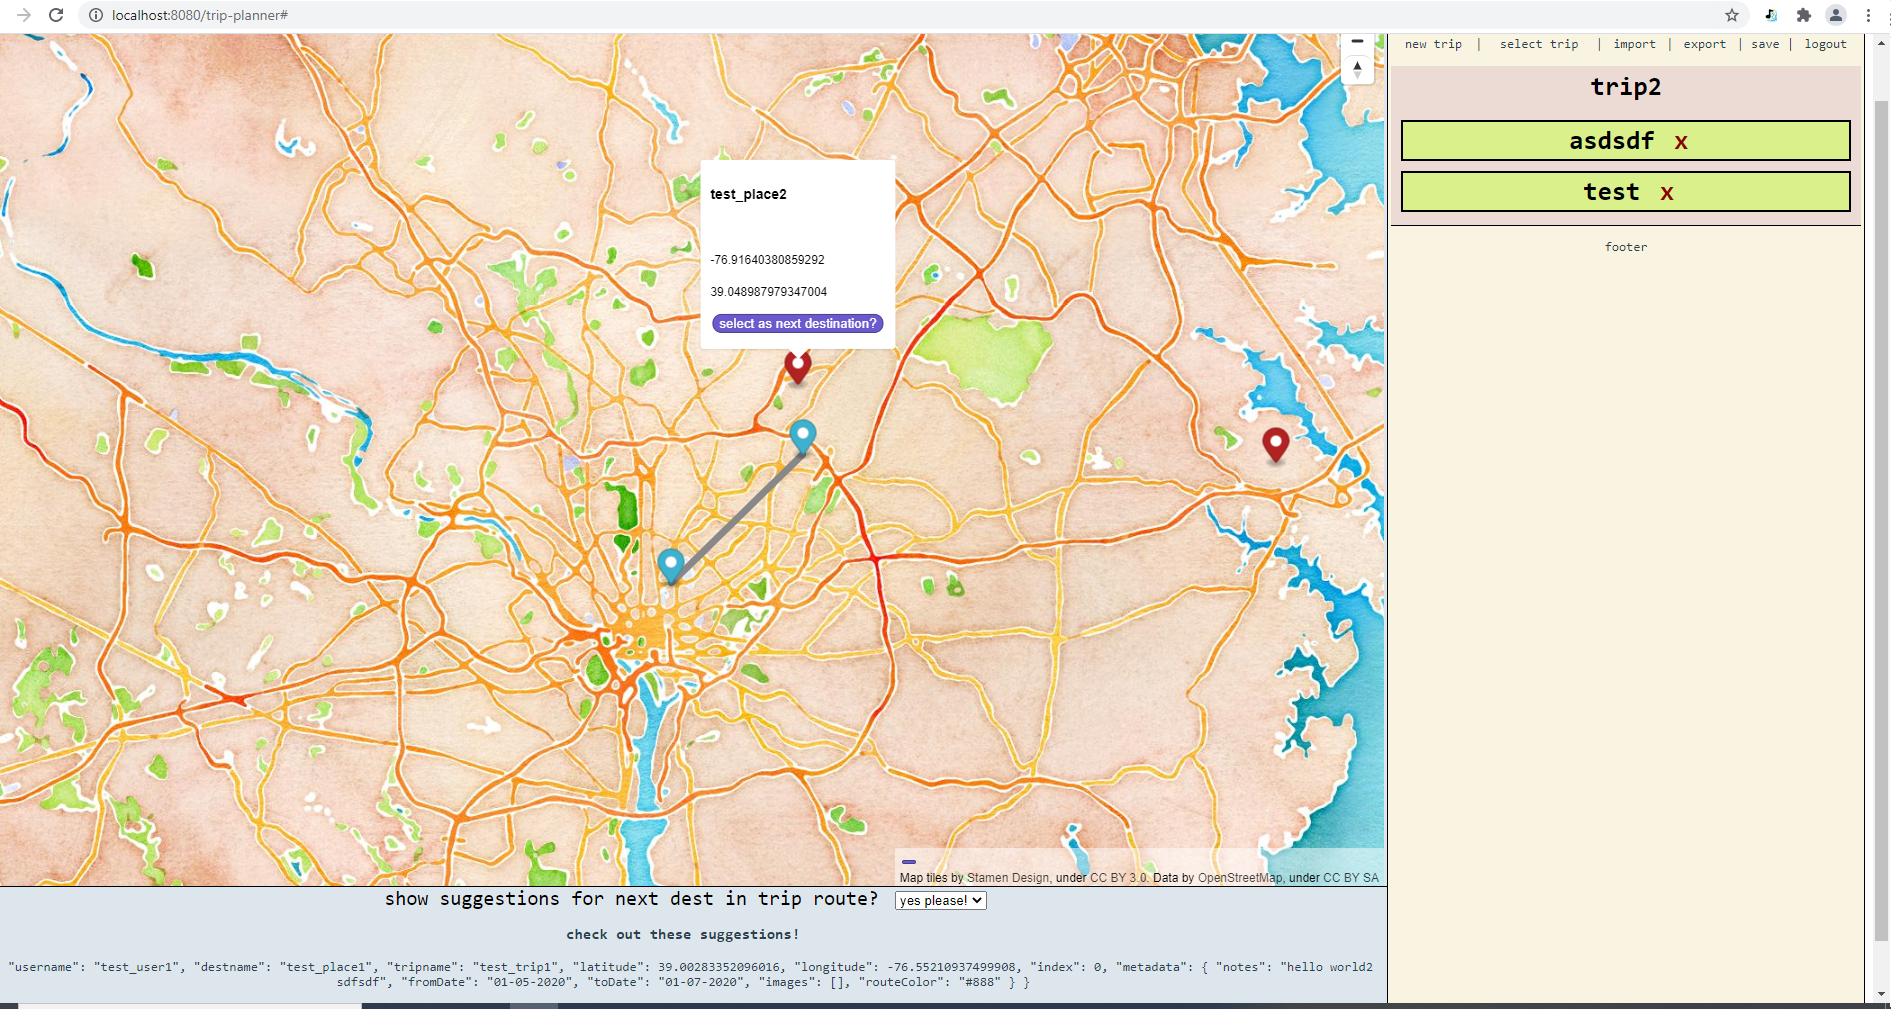
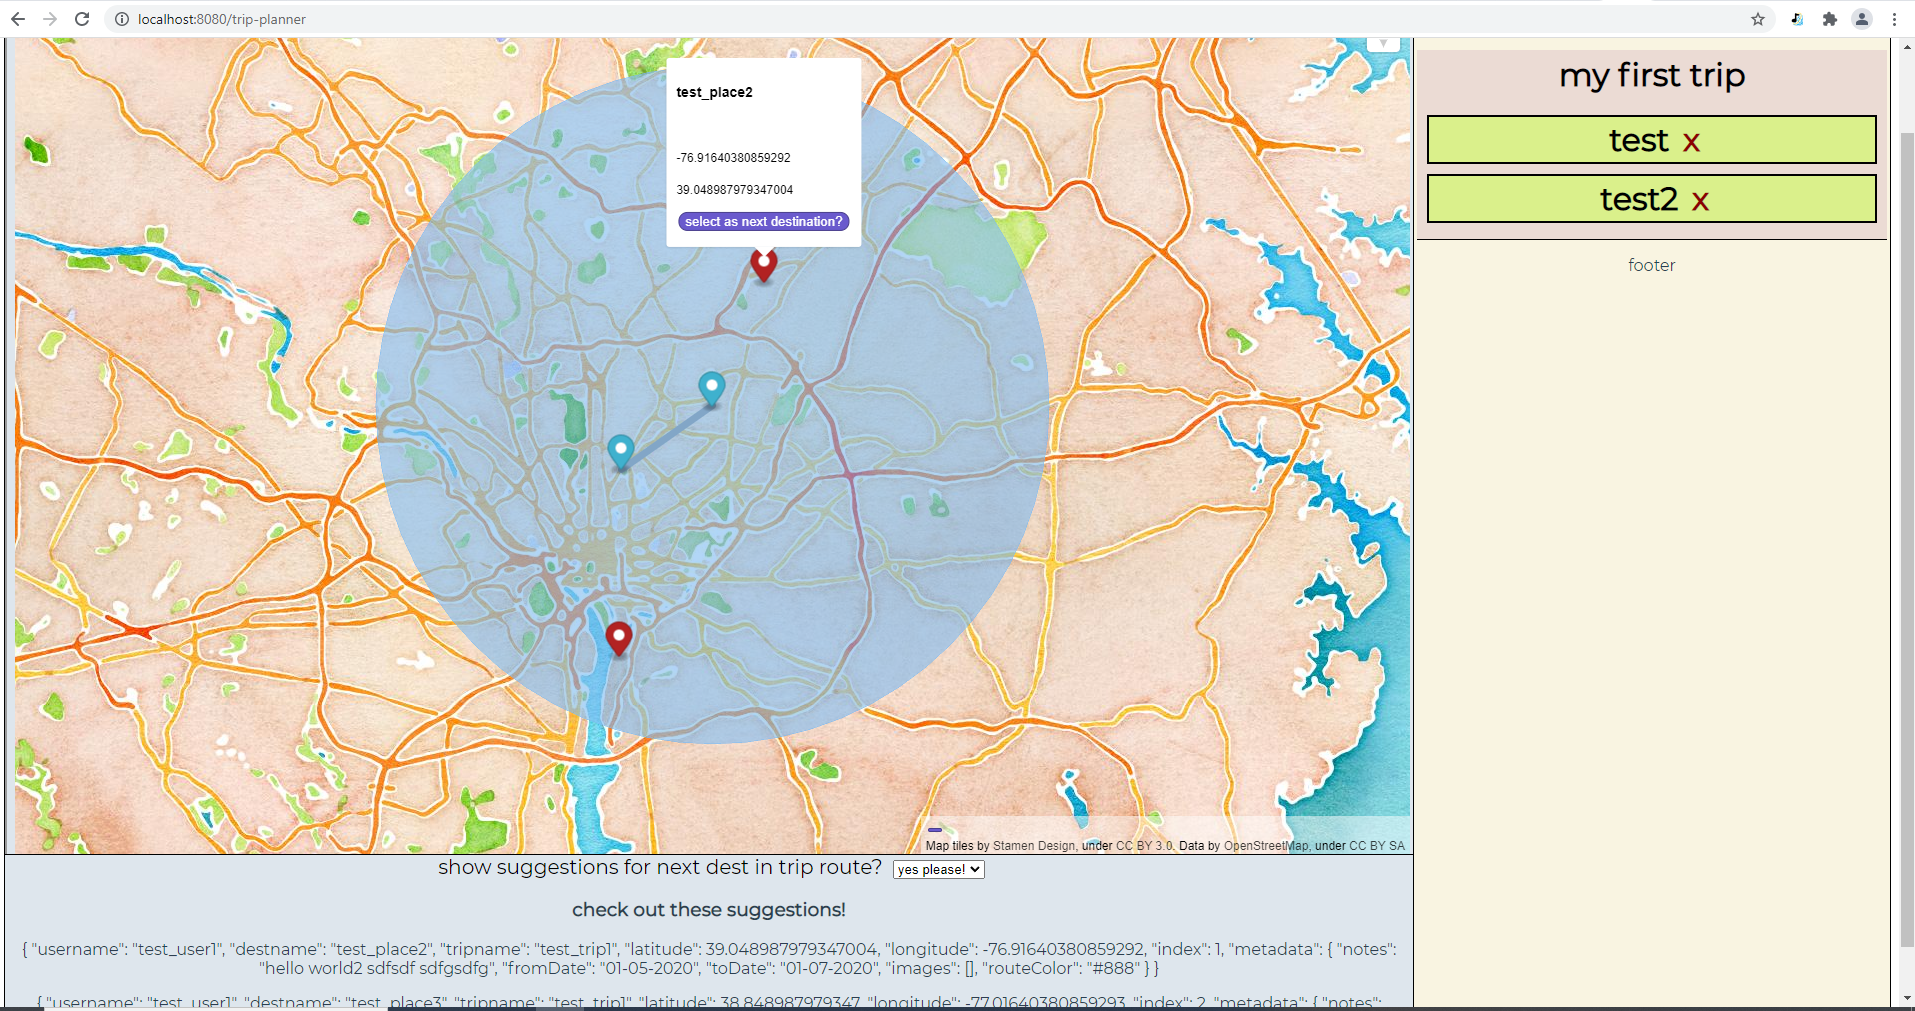
update readme and pic

diff --git a/README.md b/README.md
@@ -24,7 +24,7 @@ marker tooltip info
 choosing a different trip (can have multiple trips!)    
     
 ![next destination suggestions](screenshots/next-dest-suggestion.png)    
-next destination suggestion feature (see red marker)    
+next destination suggestion feature (see red markers)    
     
 ## Project setup
 ```
@@ -46,6 +46,7 @@ npm run serve
 ```    
     
 Note that I have a `vue.config.js` file set up such that you'll want to navigate to `http://localhost:8080/trip-planner`.    
+Also, everything should work "out-of-the-box" so you can play with the app (without the need to set up the backend) with just `npm run serve`. For the next destination suggestion feature I have some fake suggestions that show up on the map if they're within 20km of your current last trip destination.    
     
 ### Compiles and minifies for production
 ```
